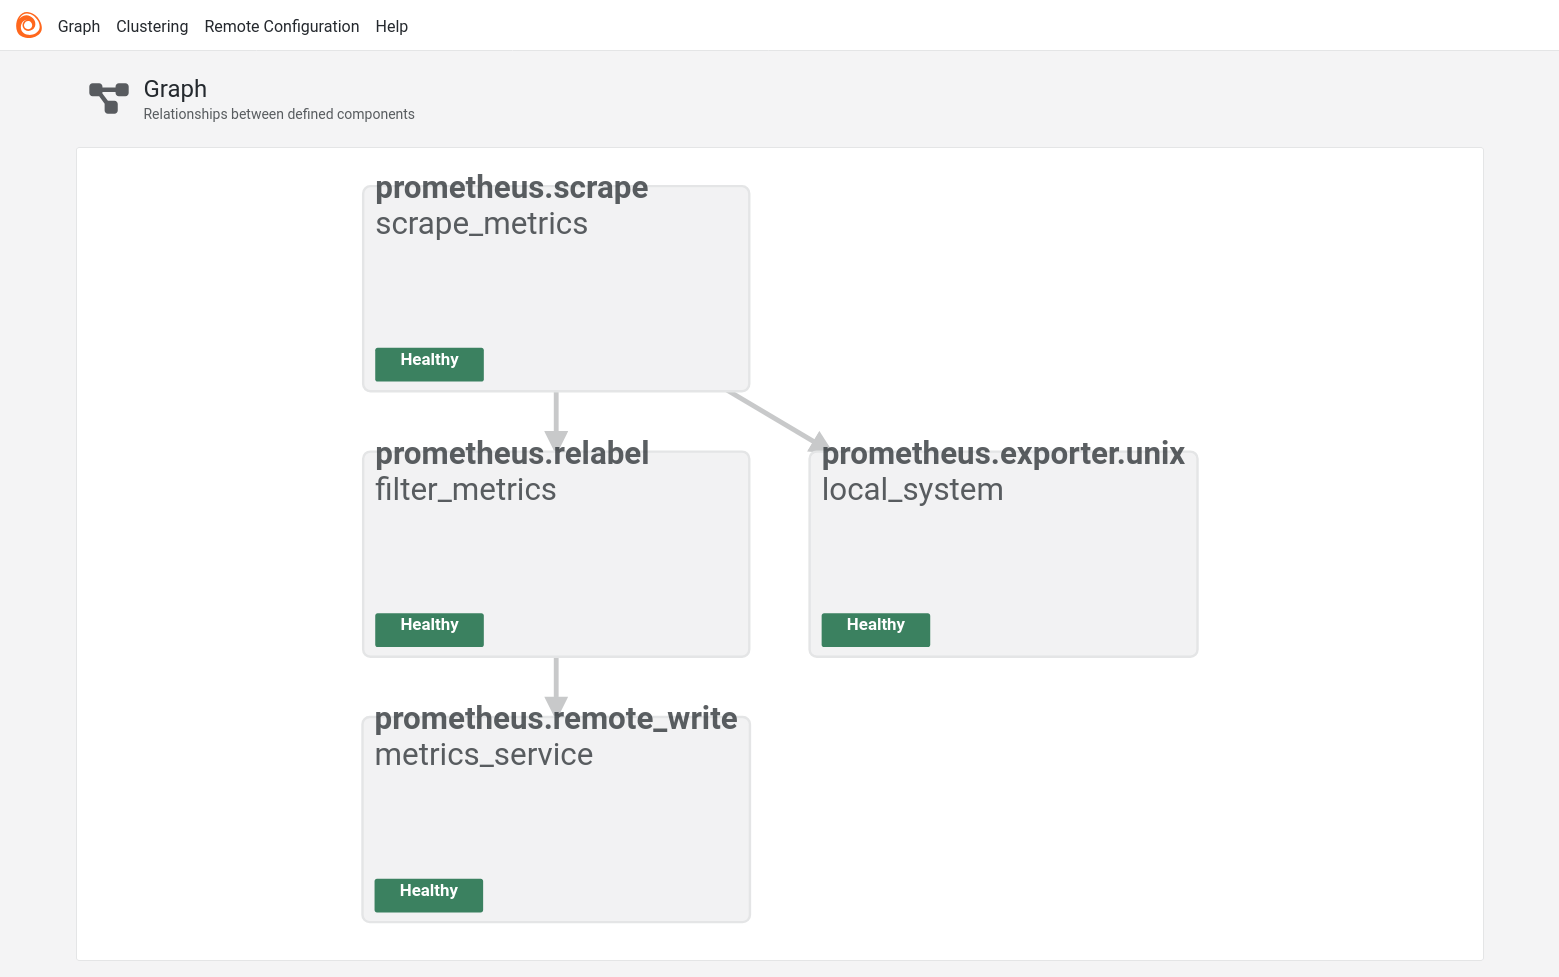
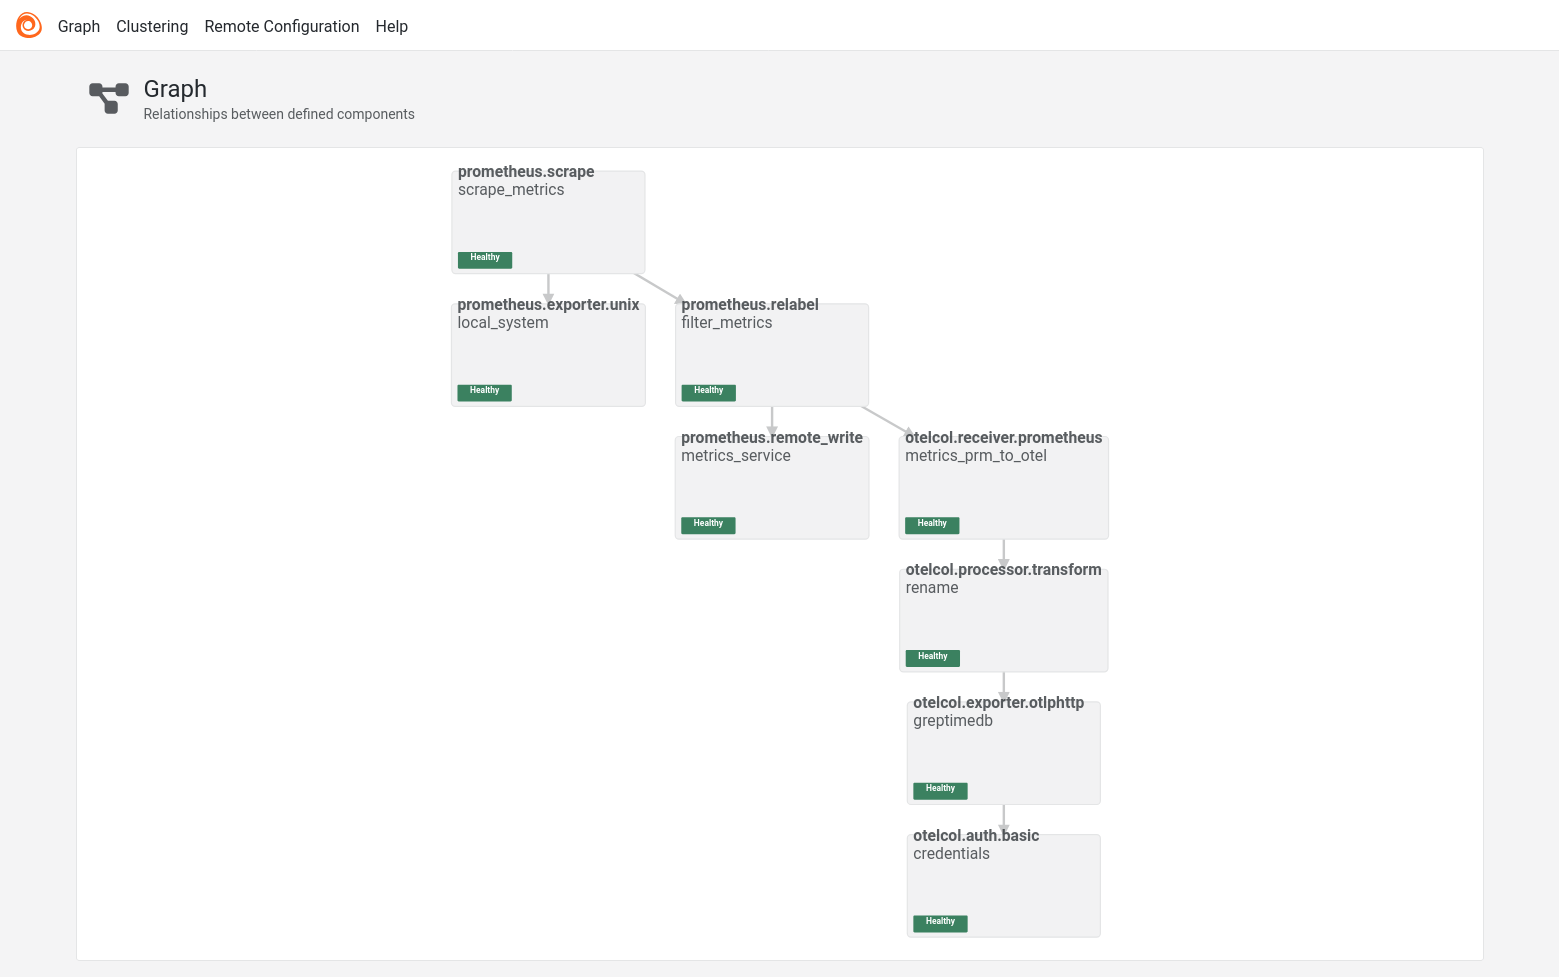
feat: add opentelemetry example for alloy (#53)
* feat: add opentelemetry example

* feat: use prefix for otel table name

* docs: update screenshot

* doc: fix mermaid chart

* docs: correct mermaid again

* Apply suggestions from code review

* docs: update docker composer requirement

---------

diff --git a/grafana-alloy/README.md b/grafana-alloy/README.md
@@ -1,16 +1,23 @@
-# Grafana Alloy with GreptimeDB
+# OpenTelemetry and Grafana Alloy with GreptimeDB
 
 This docker-compose file demos how to ingest data from Grafana Alloy to
-GreptimeDB.
+GreptimeDB, as well as using GreptimeDB as an OpenTelemetry data collector.
 
 It uses [Grafana Alloy](https://grafana.com/docs/alloy) as a Prometheus data
-source (combination of Prometheus Node Exporter and Prometheus Agent), and use
-remote write protocol to ingest data into GreptimeDB.
+source (combination of Prometheus Node Exporter and Prometheus Agent), and
+ingest data into GreptimeDB using following protocols:
+
+- Prometheus Remote Write
+- OpenTelemetry OTLP
+
+In the real world, you will use Grafana Alloy as a Prometheus agent or an
+OpenTelemetry data collector, with both sinks connected to GreptimeDB.
 
 ## How to run this demo
 
 Ensure you have `git`, `docker`, `docker-compose` and `mysql` client
-installed. To run this demo:
+installed. Docker Compose version 2.24 or higher is required. To run this
+demo:
 
 ```shell
 git clone https://github.com/GreptimeTeam/demo-scene.git
@@ -67,19 +74,39 @@ The topology is illustrated in this diagram.
 ```mermaid
 flowchart LR
   greptimedb[(GreptimeDB)]
-  alloy[Alloy]
   grafana[Grafana]
 
-  alloy --> greptimedb
+  subgraph alloy[Alloy]
+    prometheus_exporter_unix --> prometheus_relabel
+    prometheus_relabel --> prometheus_remote_write
+
+    prometheus_relabel --> otelcol_receiver_prometheus
+    otelcol_receiver_prometheus --> otelcol_processor_transform
+    otelcol_processor_transform --> otelcol_exporter_otlphttp
+  end
+
+  prometheus_remote_write --> |PRW| greptimedb
+  otelcol_exporter_otlphttp --> |OTLP HTTP/Protobuf| greptimedb
+
   greptimedb --> grafana
 ```
+
+Grafana Alloy is a telemetry data pipeline that ingests data in Prometheus,
+Loki, and OpenTelemetry formats. It also provides processing capabilities, such
+as Prometheus relabeling and OpenTelemetry OTTL (OpenTelemetry Transformation
+Language) functions.
+
+In this example, we generate metrics data from Alloy's built-in data source
+called `prometheus.exporter.unix` and export the data to both a Prometheus
+remote write sink and an OpenTelemetry-compatible collector, which is
+GreptimeDB.
 
 ## Run in GreptimeCloud
 
 By default, this example writes data into a GreptimeDB instance within the
 docker compose. It's also possible to write to your own GreptimeCloud instance
 by creating a `greptime.env` file from our sample `greptime.env.sample` and
-providing your host, dbname and authentication information. Then use `docker
+providing your host, dbname and authentication information.Then use `docker
 compose down` and `docker compose up` to recreate the compose cluster and apply
 new settings.
 

diff --git a/README.md b/README.md
@@ -27,7 +27,7 @@ Scripts and samples to support Greptime Demos and Talks. Might be rough around t
 * [Kafka + Vector + GreptimeDB + Web UI](kafka-ingestion)
 * [Flight data ingestion and visualization](flight-data-ingester), including
   geospatial index with H3
-* [Grafana Alloy + GreptimeDB](grafana-alloy)
+* [OpenTelemetry + Grafana Alloy + GreptimeDB](grafana-alloy)
 
 ### Data Migrations
 
